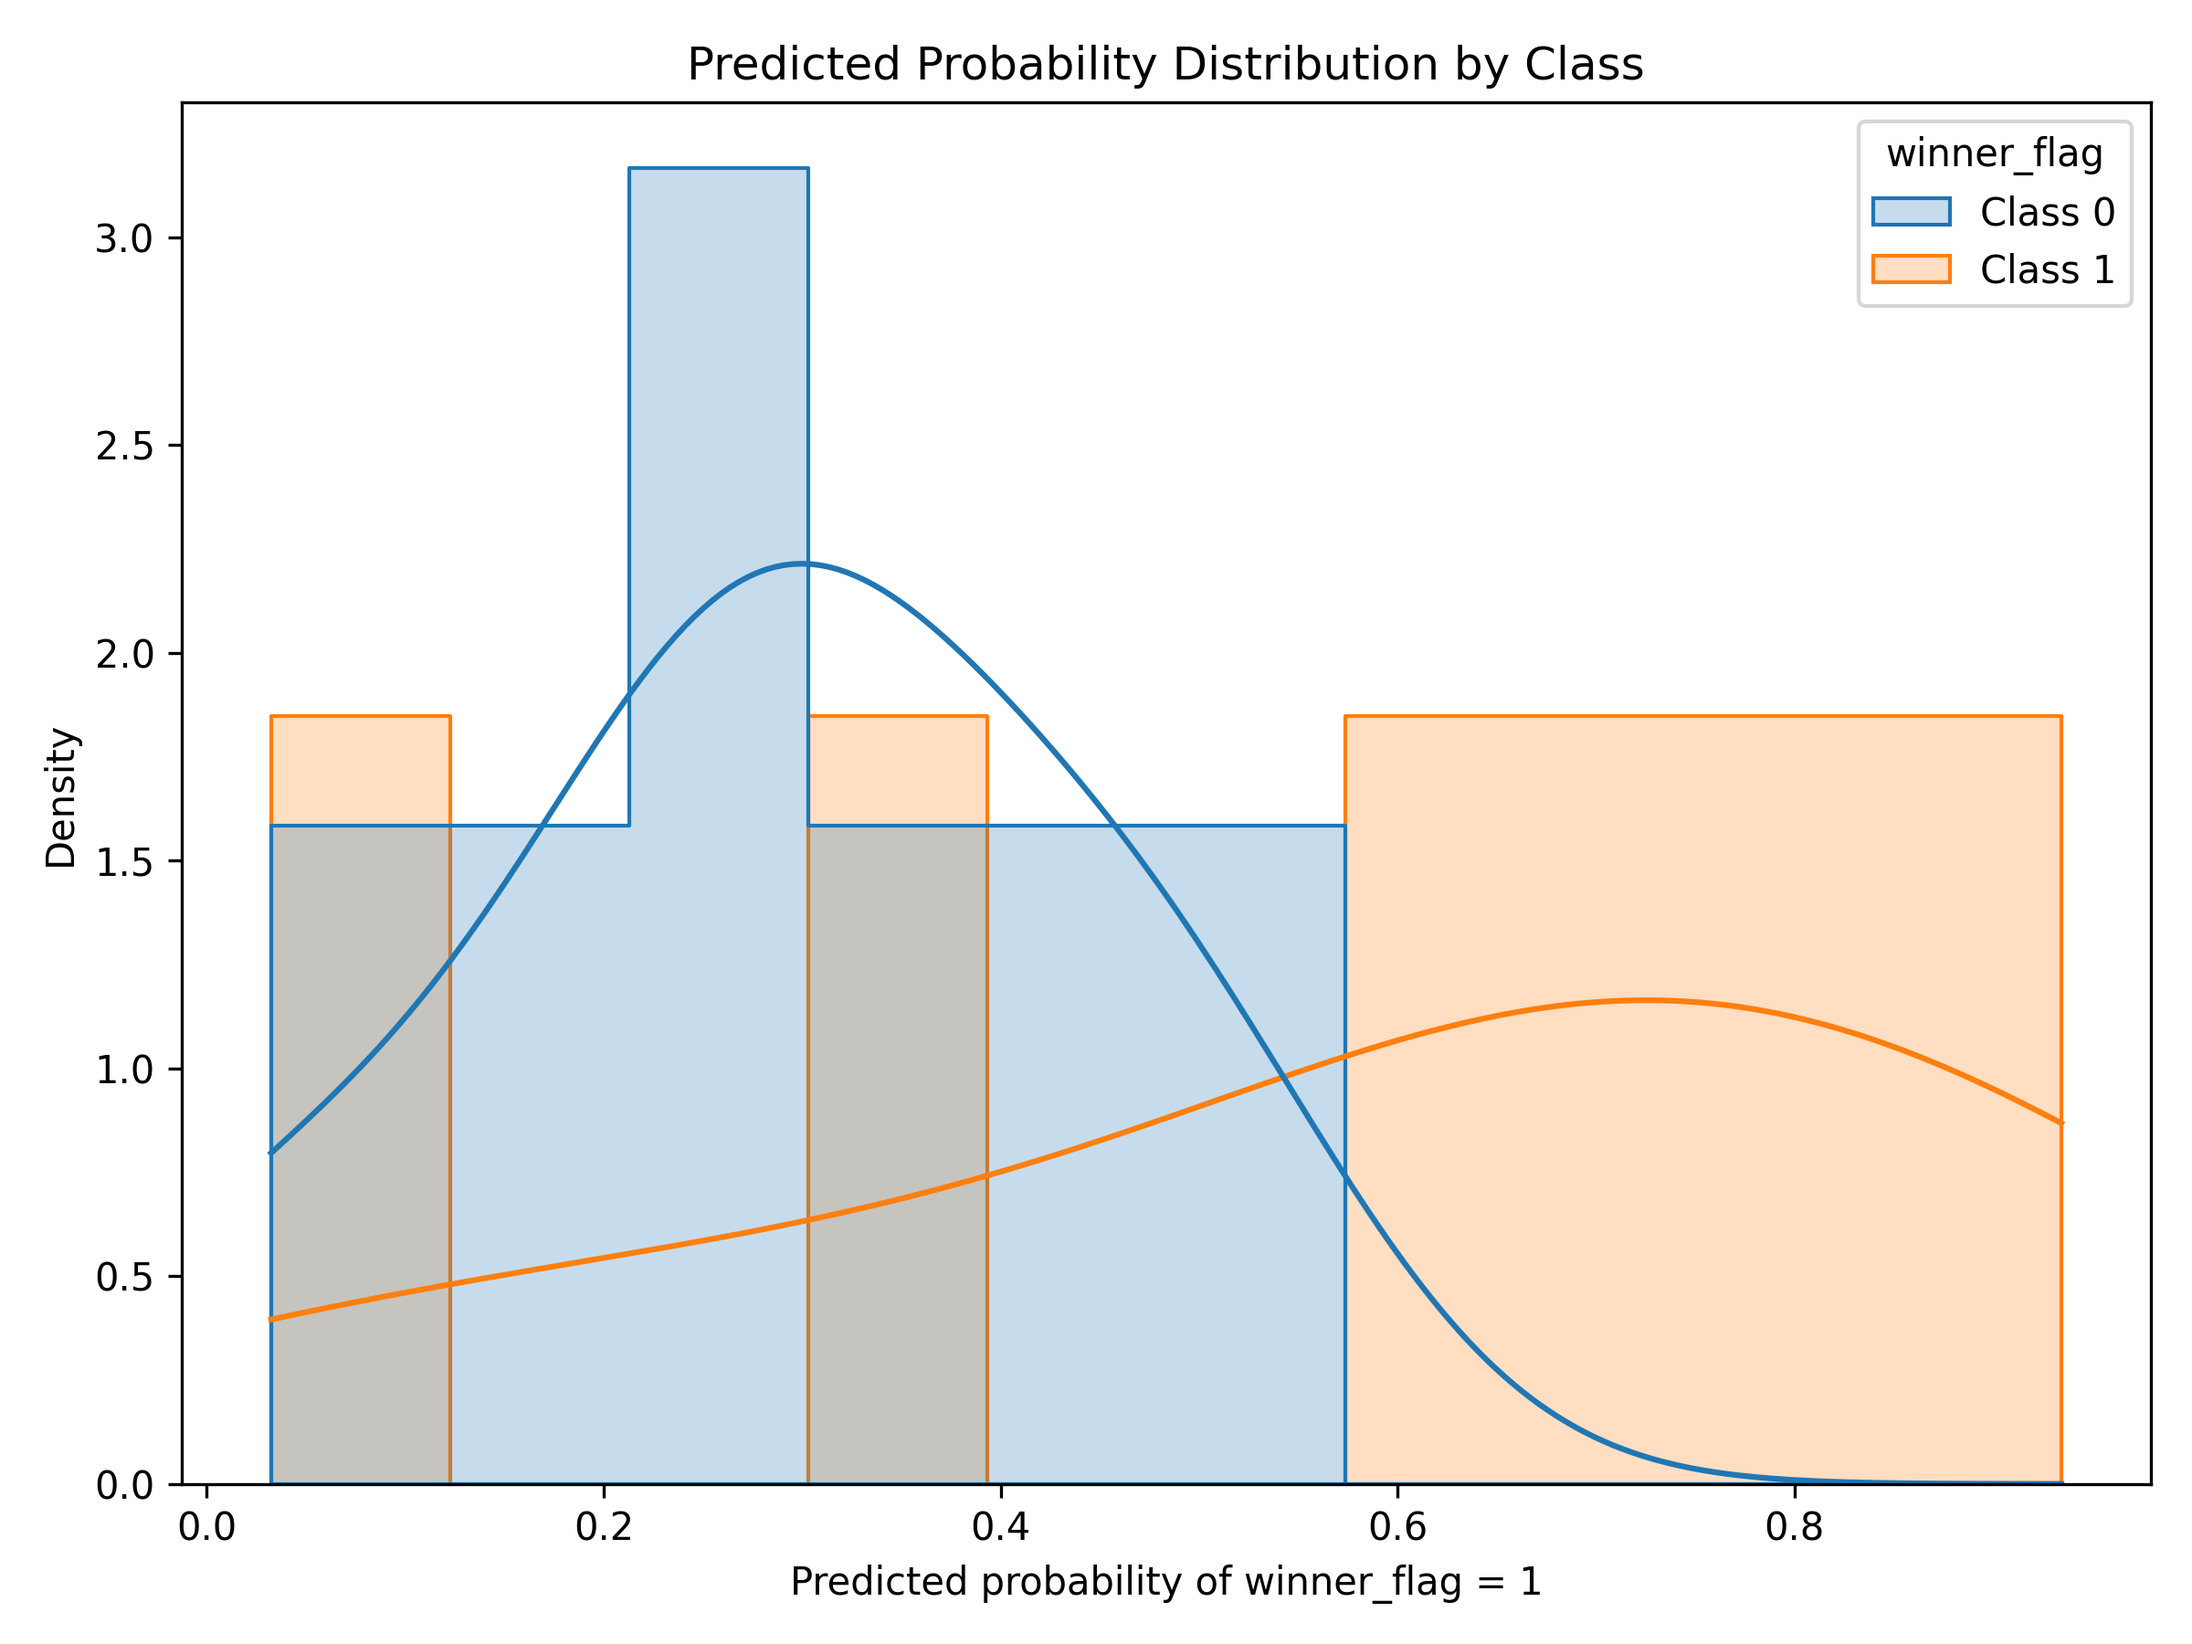
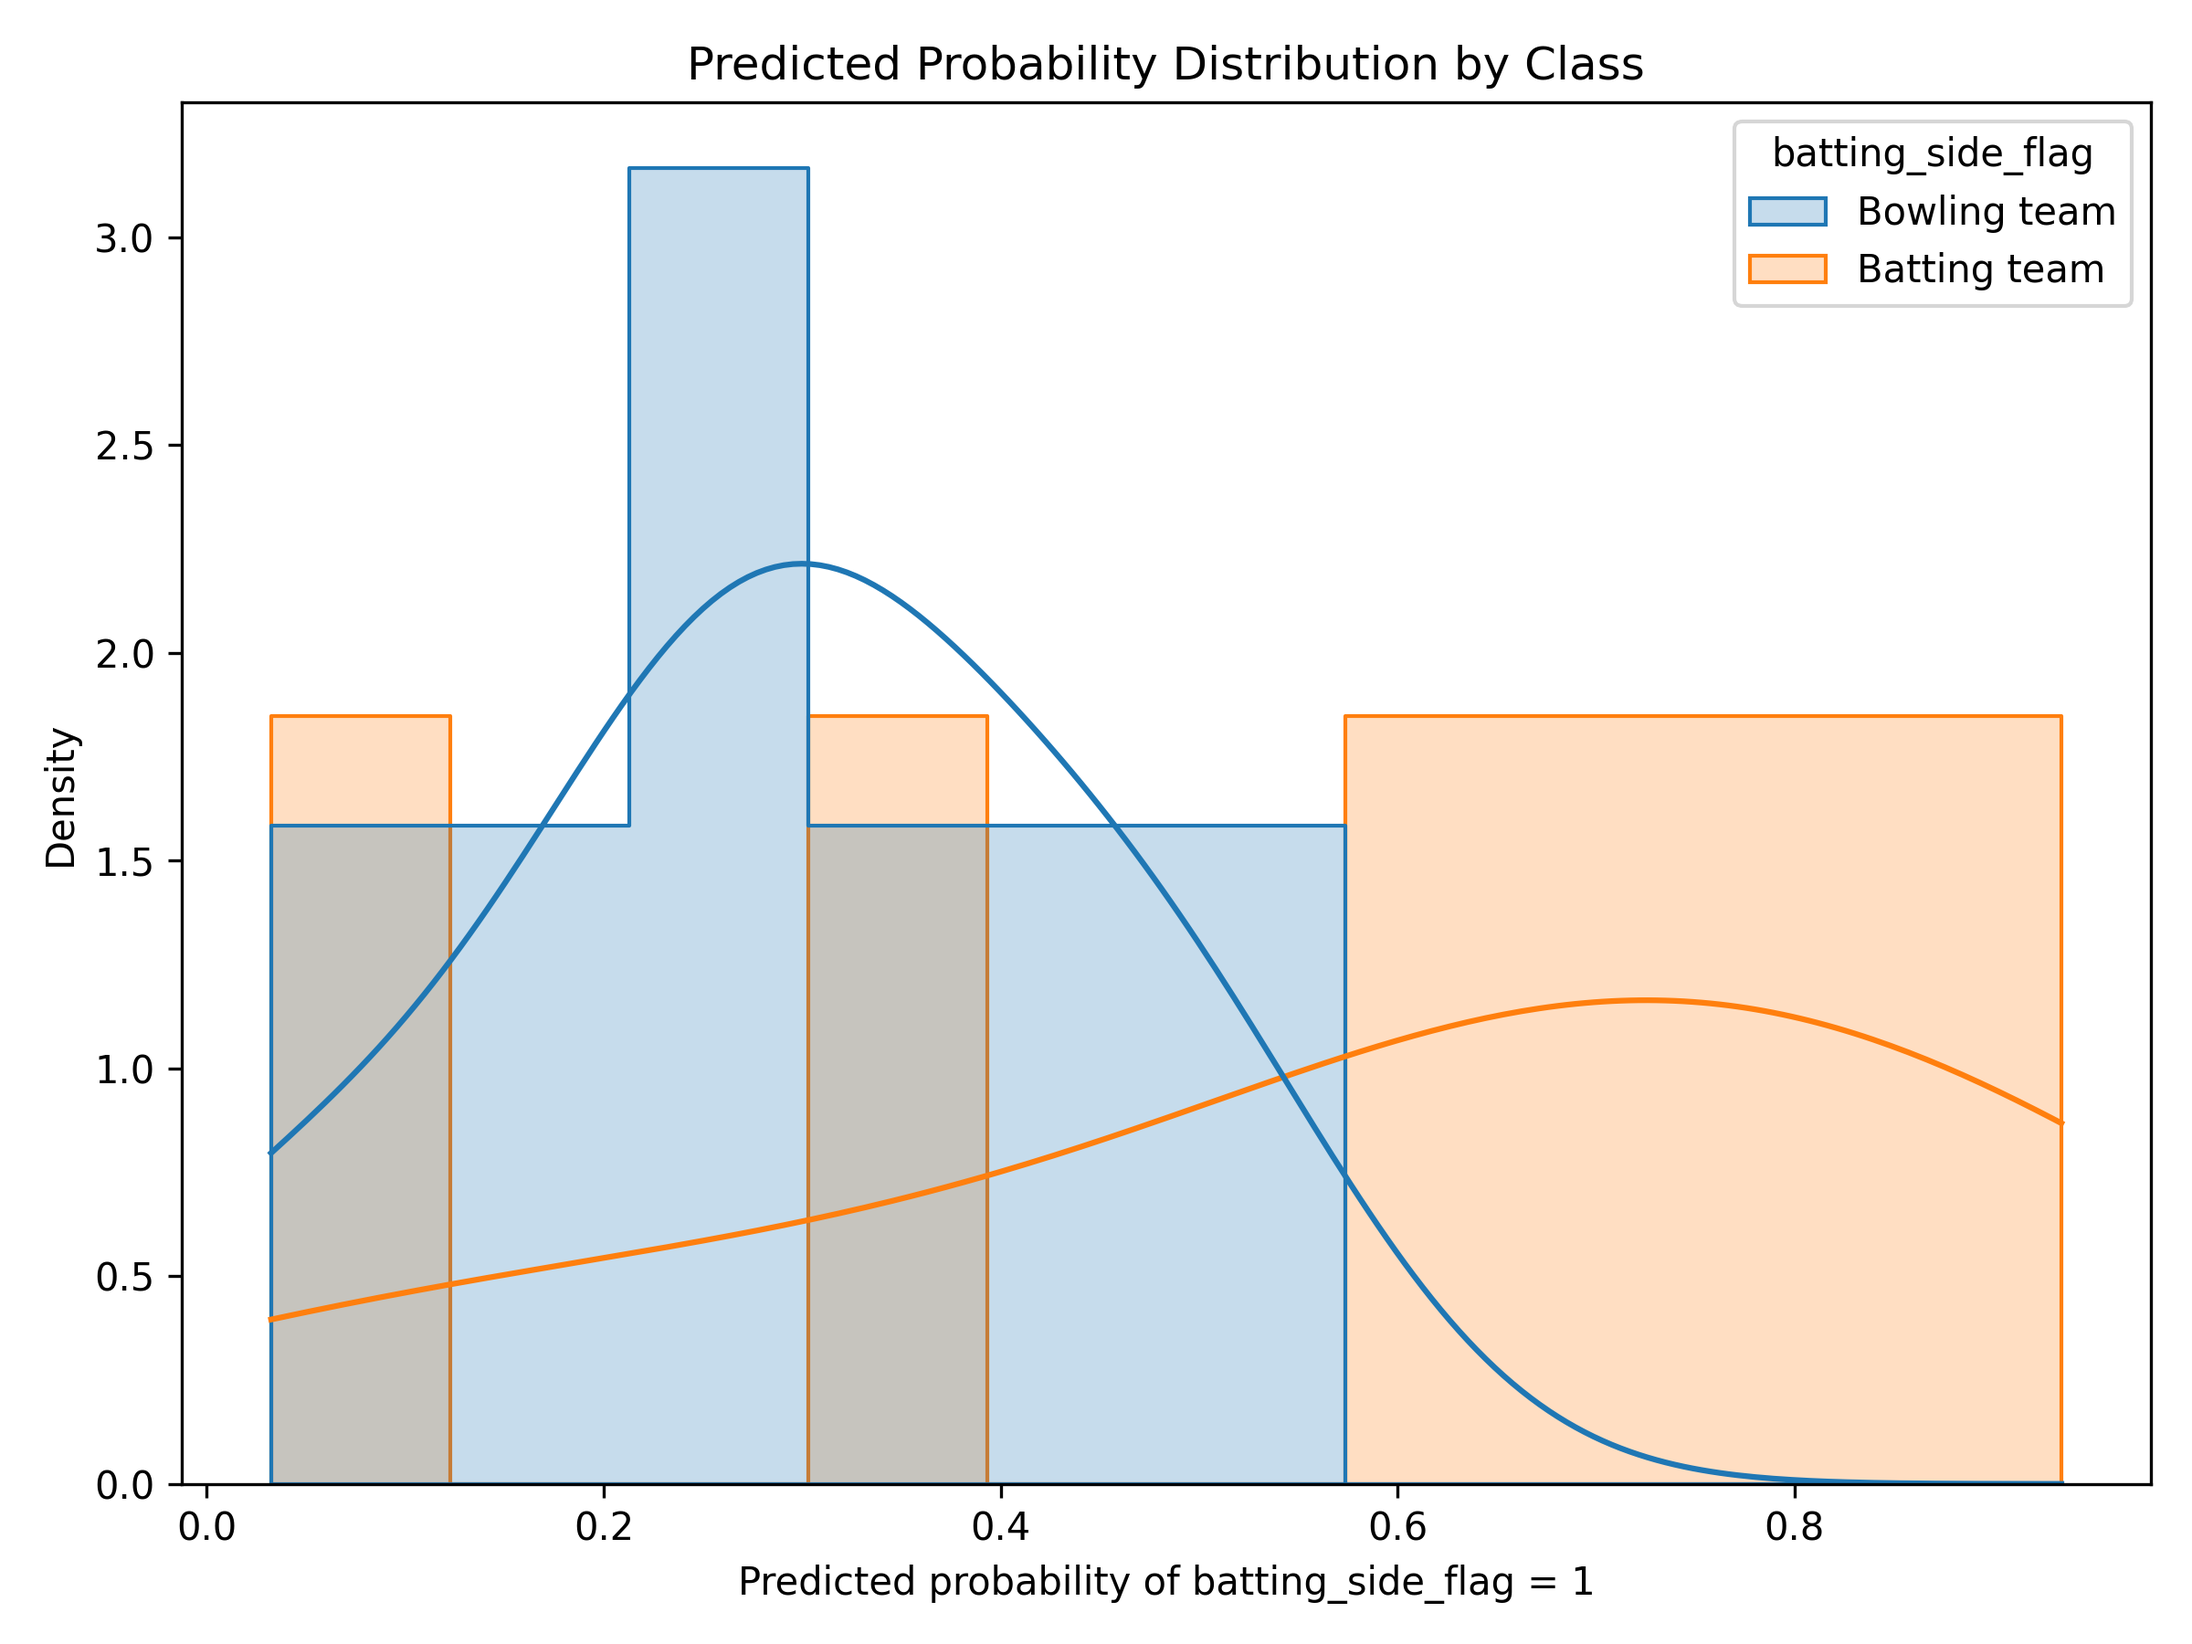
Final Upgration and changes

Changed region(s): [[0.7812, 0.0622, 0.9688, 0.1867], [0.3438, 0.9333, 0.6875, 0.9956]]

diff --git a/NPL2025/model.py b/NPL2025/model.py
@@ -30,12 +30,24 @@ def load_match_features() -> pd.DataFrame:
     return pd.read_csv(OUTPUT_DIR / "match_features.csv")
 
 
-def add_winner_flag(df: pd.DataFrame) -> pd.DataFrame:
+def add_batting_side_flag(df: pd.DataFrame) -> pd.DataFrame:
     df = df.copy()
-    df["winner_flag"] = pd.NA
-    df.loc[df["winner"] == df["team1"], "winner_flag"] = 1
-    df.loc[df["winner"] == df["team2"], "winner_flag"] = 0
-    df["winner_flag"] = pd.to_numeric(df["winner_flag"], errors="coerce")
+    df["batting_team"] = pd.NA
+
+    bat_mask = df["toss_decision"].astype("string").str.lower().eq("bat")
+    field_mask = df["toss_decision"].astype("string").str.lower().eq("field")
+
+    df.loc[bat_mask, "batting_team"] = df.loc[bat_mask, "toss_winner"]
+
+    batting_team1_mask = field_mask & df["toss_winner"].eq(df["team1"])
+    batting_team2_mask = field_mask & df["toss_winner"].eq(df["team2"])
+    df.loc[batting_team1_mask, "batting_team"] = df.loc[batting_team1_mask, "team2"]
+    df.loc[batting_team2_mask, "batting_team"] = df.loc[batting_team2_mask, "team1"]
+
+    df["batting_side_flag"] = pd.NA
+    df.loc[df["winner"] == df["batting_team"], "batting_side_flag"] = 1
+    df.loc[df["winner"].notna() & df["batting_team"].notna() & (df["winner"] != df["batting_team"]), "batting_side_flag"] = 0
+    df["batting_side_flag"] = pd.to_numeric(df["batting_side_flag"], errors="coerce")
     return df
 
 
@@ -86,7 +98,7 @@ def prepare_logistic_data(df: pd.DataFrame) -> pd.DataFrame:
     )
 
     required_columns = [
-        "winner_flag",
+        "batting_side_flag",
         "toss_decision_encoded",
         "powerplay_runs",
         "death_over_runs",
@@ -95,7 +107,7 @@ def prepare_logistic_data(df: pd.DataFrame) -> pd.DataFrame:
         "dot_ball_count",
     ]
     frame = frame[required_columns].dropna()
-    frame["winner_flag"] = frame["winner_flag"].astype(int)
+    frame["batting_side_flag"] = frame["batting_side_flag"].astype(int)
     return frame
 
 
@@ -119,7 +131,7 @@ def save_roc_curve(y_true: pd.Series, y_prob: pd.Series, output_path: Path) -> f
 def save_probability_distribution(y_true: pd.Series, y_prob: pd.Series, output_path: Path) -> None:
     plot_df = pd.DataFrame(
         {
-            "winner_flag": y_true.map({0: "Class 0", 1: "Class 1"}),
+            "batting_side_flag": y_true.map({0: "Bowling team", 1: "Batting team"}),
             "predicted_probability": y_prob,
         }
     )
@@ -128,14 +140,14 @@ def save_probability_distribution(y_true: pd.Series, y_prob: pd.Series, output_p
     sns.histplot(
         data=plot_df,
         x="predicted_probability",
-        hue="winner_flag",
+        hue="batting_side_flag",
         bins=10,
         kde=True,
         stat="density",
         common_norm=False,
         element="step",
     )
-    plt.xlabel("Predicted probability of winner_flag = 1")
+    plt.xlabel("Predicted probability of batting_side_flag = 1")
     plt.ylabel("Density")
     plt.title("Predicted Probability Distribution by Class")
     plt.tight_layout()
@@ -144,14 +156,14 @@ def save_probability_distribution(y_true: pd.Series, y_prob: pd.Series, output_p
 
 
 def main() -> None:
-    df = add_winner_flag(load_match_features())
+    df = add_batting_side_flag(load_match_features())
 
-    valid = df["winner_flag"].notna()
+    valid = df["batting_side_flag"].notna()
     if valid.sum() != len(df):
-        print(f"Dropped {len(df) - valid.sum()} rows without a valid team1/team2 winner match.")
+        print(f"Dropped {len(df) - valid.sum()} rows without a valid batting-side winner match.")
 
     df = df.loc[valid].copy()
-    df["winner_flag"] = df["winner_flag"].astype(int)
+    df["batting_side_flag"] = df["batting_side_flag"].astype(int)
 
     chi2, p_value, dof, contingency = chi_square_toss_vs_winner(df)
     print("Chi-square test for toss_winner vs winner:")
@@ -185,7 +197,7 @@ def main() -> None:
         "dot_ball_count",
     ]
     X = logistic_df[feature_columns]
-    y = logistic_df["winner_flag"]
+    y = logistic_df["batting_side_flag"]
     X_train, X_test, y_train, y_test = train_test_split(
         X, y, test_size=0.2, random_state=42, stratify=y
     )
@@ -199,7 +211,7 @@ def main() -> None:
             {
                 "model": model,
                 "feature_columns": feature_columns,
-                "class_labels": {0: "Team 2", 1: "Team 1"},
+                "class_labels": {0: "Bowling team", 1: "Batting team"},
             },
             handle,
         )
@@ -285,14 +297,14 @@ def main() -> None:
     print(hypothesis_summary.to_string(index=False, float_format=lambda value: f"{value:.4f}"))
     print()
 
-    numeric = df.select_dtypes(include="number").drop(columns=["match_id", "winner_flag"], errors="ignore")
+    numeric = df.select_dtypes(include="number").drop(columns=["match_id", "batting_side_flag"], errors="ignore")
     numeric = numeric.loc[:, numeric.nunique(dropna=True) > 1]
     correlation_values = {}
     for column in numeric.columns:
-        paired = df[[column, "winner_flag"]].dropna()
-        if paired[column].nunique(dropna=True) < 2 or paired["winner_flag"].nunique(dropna=True) < 2:
+        paired = df[[column, "batting_side_flag"]].dropna()
+        if paired[column].nunique(dropna=True) < 2 or paired["batting_side_flag"].nunique(dropna=True) < 2:
             continue
-        correlation_values[column] = paired[column].corr(paired["winner_flag"])
+        correlation_values[column] = paired[column].corr(paired["batting_side_flag"])
 
     correlations = pd.Series(correlation_values).sort_values(key=lambda s: s.abs(), ascending=False)
 
@@ -300,7 +312,7 @@ def main() -> None:
     vif_input = vif_input.dropna()
     vif = compute_vif(vif_input)
 
-    print("Correlation with winner_flag:")
+    print("Correlation with batting_side_flag:")
     print(correlations)
     print()
 

diff --git a/NPL2025/app.py b/NPL2025/app.py
@@ -55,7 +55,6 @@ def main() -> None:
     st.title("NPL 2025 Match Outcome Predictor")
     st.caption("Predicts whether the batting side or bowling side is more likely to win based on match features.")
 
-
     if not MODEL_PATH.exists():
         st.error("Trained model not found. Run `python model.py` first to create `outputs/logistic_regression_model.pkl`.")
         st.stop()
@@ -93,7 +92,6 @@ def main() -> None:
         predicted_side = class_labels[predicted_class]
         predicted_probability = batting_probability if predicted_class == 1 else bowling_probability
 
-
         col1, col2 = st.columns(2)
         with col1:
             st.metric("Predicted side to win", predicted_side)
@@ -105,7 +103,6 @@ def main() -> None:
                     "Win Probability": [batting_probability, bowling_probability],
                 }
             ).set_index("Side")
-
 
             fig, ax = plt.subplots(figsize=(6, 4))
             chart_df["Win Probability"].plot(kind="bar", ax=ax, color=["#1f77b4", "#ff7f0e"])
@@ -120,6 +117,5 @@ def main() -> None:
 
 if __name__ == "__main__":
     main()
-
 
 

diff --git a/README.md b/README.md
@@ -15,7 +15,7 @@ This project analyzes Nepal Premier League match data and provides a simple Stre
 - Loads and cleans match data.
 - Performs statistical analysis such as chi-square testing, ANOVA, and logistic regression.
 - Saves model artifacts and diagnostic plots.
-- Lets you predict the likely winner using Streamlit.
+- Lets you predict whether the batting side or bowling side is more likely to win using Streamlit.
 
 ## Requirements
 
